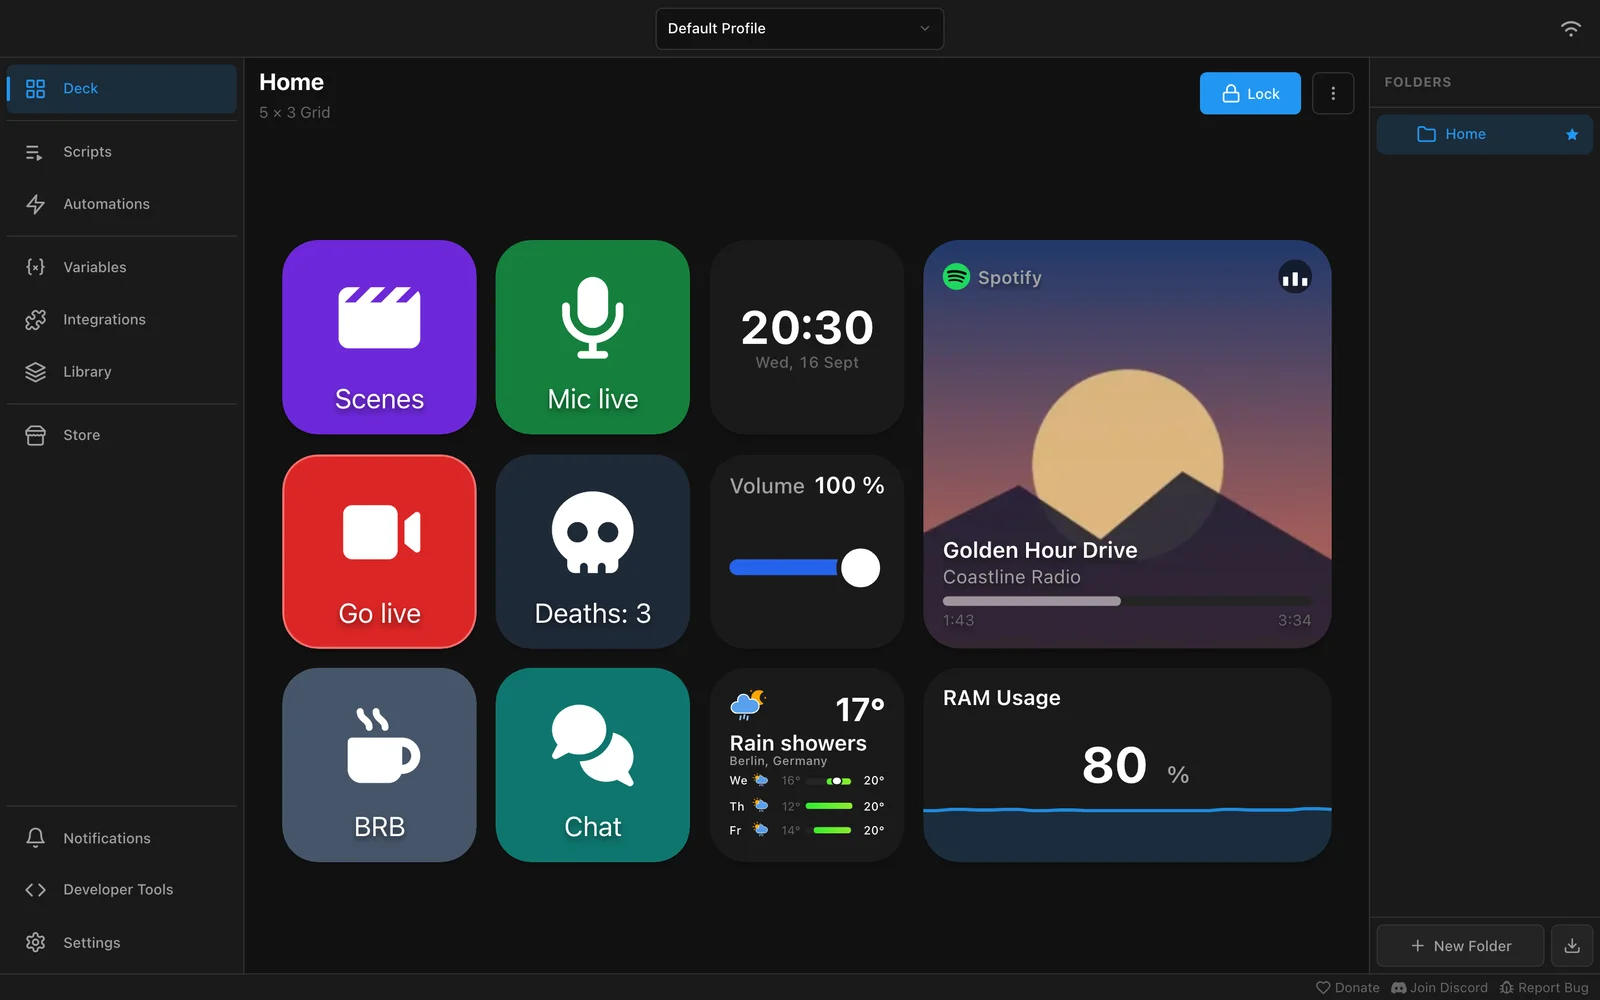
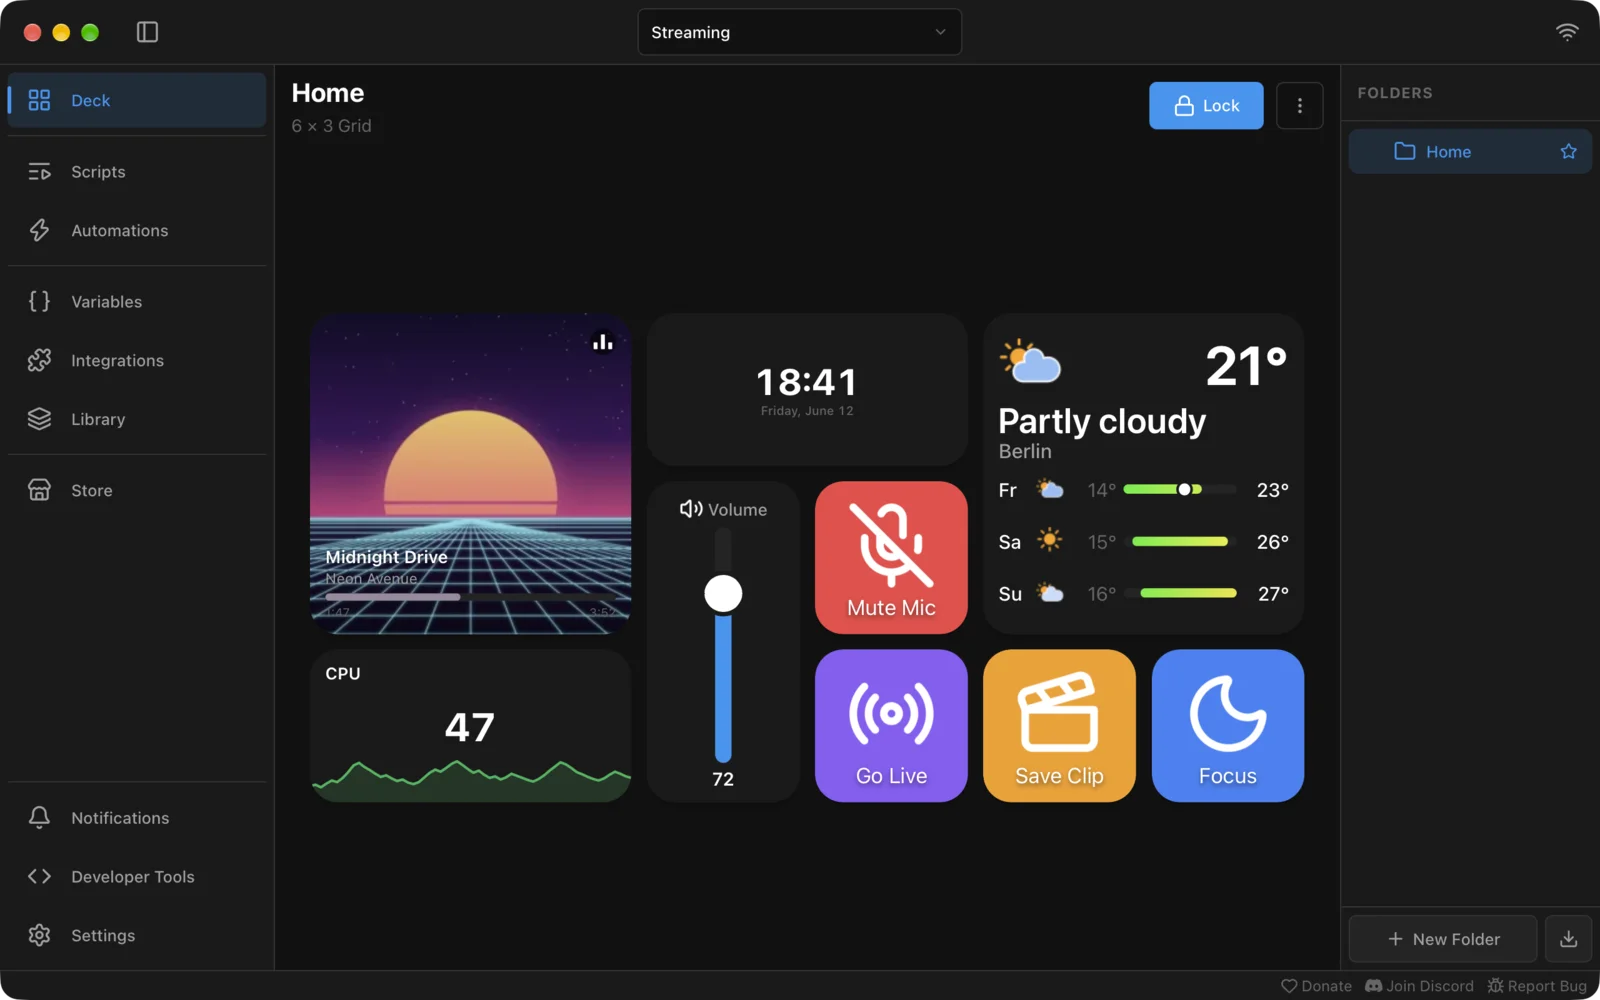
Use the Macro Deck README screenshot in the profile

diff --git a/profile/README.md b/profile/README.md
@@ -11,7 +11,7 @@ Macro Deck is the open-source macro pad for Windows, macOS and Linux. Build your
 **Macro Deck 3 is in beta.** Download it from [macro-deck.app](https://macro-deck.app).
 
 <p align="center">
-  <img src="https://github.com/Macro-Deck-App/.github/raw/main/profile/images/deck.webp" alt="The Macro Deck 3 deck editor with buttons, a clock, a volume slider, the weather, a Spotify music player and a RAM usage graph" width="900" />
+  <img src="https://github.com/Macro-Deck-App/.github/raw/main/profile/images/deck.webp" alt="The Macro Deck 3 deck editor with buttons, a clock, a volume slider, the weather, a music player and a CPU usage graph" width="900" />
 </p>
 
 ### What you can do
